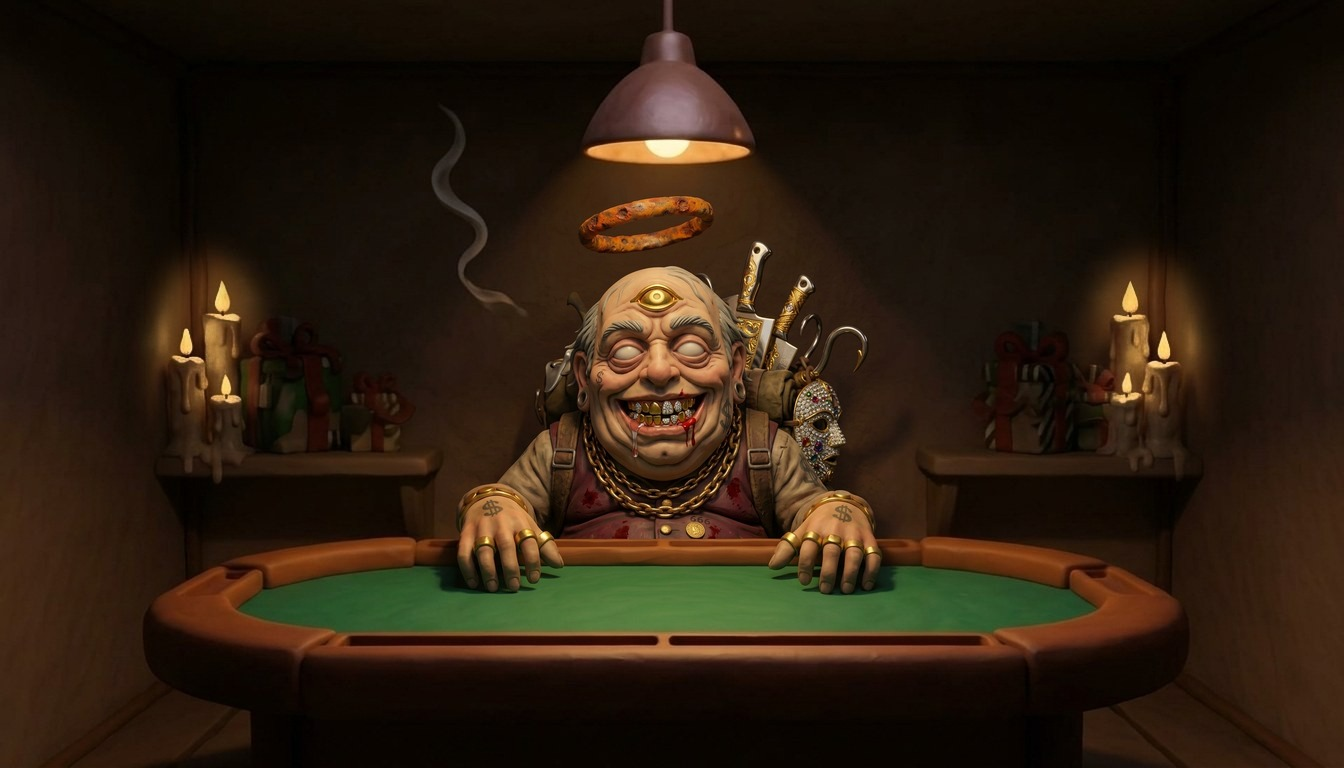
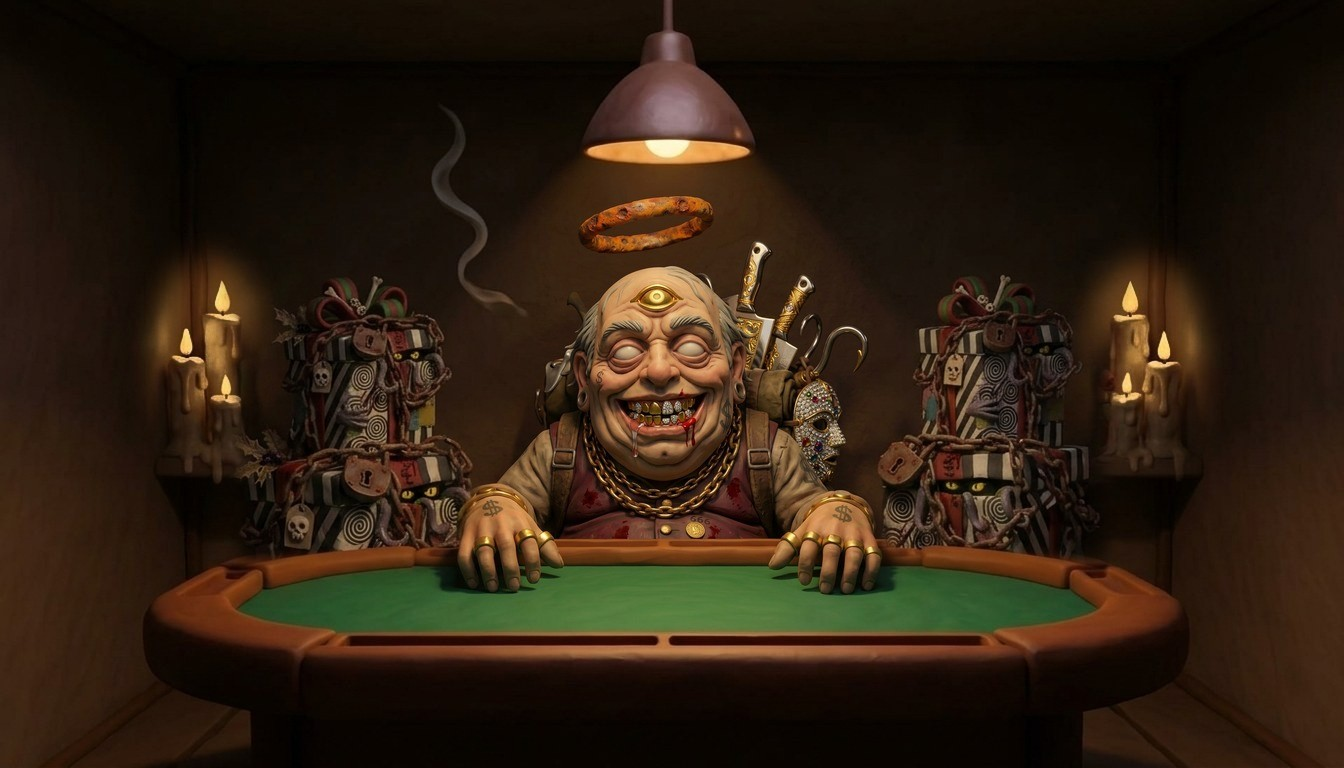
Peddler: Nightmare Box piles on the floor, 13 good karma gate, +1 karma per hiding place; phone edge arrows and hint
Claude-Session: https://claude.ai/code/session_017UCt1yh6wM11RSMuh2VTku

Changed region(s): [[0.1562, 0.3438, 0.375, 0.75], [0.6562, 0.3438, 0.8438, 0.75]]

diff --git a/docs/index.html b/docs/index.html
@@ -233,6 +233,8 @@ button{font:inherit;color:inherit}
 .qz .ab{display:inline-block;width:22px;margin-right:8px;font-family:var(--mono);font-weight:800;color:var(--glow)}
 .demo{margin-top:12px;font-family:var(--mono);font-size:10.5px;letter-spacing:.06em;color:#7d706a}
 .boxes{display:flex;gap:6px;flex-wrap:wrap;margin-top:8px}
+.kgate{margin:0 0 10px;padding:8px 12px;border-radius:10px;font-size:13px;font-weight:600;background:rgba(255,107,94,.12);border:1px solid rgba(255,107,94,.35);color:#ffb3aa}
+.kgate.ok{background:rgba(155,224,111,.12);border-color:rgba(155,224,111,.4);color:#c8f0ad}
 .boxes span{width:26px;height:26px;border-radius:3px;background:repeating-linear-gradient(135deg,#eee 0 4px,#111 4px 8px);border:2px solid #6b2b1a;box-shadow:0 0 0 2px #2a1a0e}
 
 /* ---------- box opening ---------- */
@@ -381,6 +383,17 @@ button{font:inherit;color:inherit}
 /* ---------- hint ---------- */
 .hint{position:fixed;z-index:10;left:50%;top:calc(58px + env(safe-area-inset-top,0px));transform:translateX(-50%);font-family:var(--mono);font-size:11px;letter-spacing:.16em;text-transform:uppercase;color:var(--ash);background:rgba(5,4,10,.7);padding:5px 10px;border-radius:3px;pointer-events:none}
 @media (min-width:900px) and (min-aspect-ratio:4/3){.hint{display:none}}
+/* phones (George 2026-11-28): hint at the bottom so it never collides with the karma pill; edge arrows show there's more room to either side */
+.hint{top:auto;bottom:calc(14px + env(safe-area-inset-bottom,0px));transition:opacity .6s}
+.hint.gone{opacity:0}
+.edge{position:fixed;z-index:9;top:50%;translate:0 -50%;width:40px;height:64px;border:0;padding:0;cursor:pointer;background:rgba(10,6,4,.55);color:var(--bone);font-size:22px;line-height:64px;text-align:center;opacity:0;pointer-events:none;transition:opacity .3s;-webkit-tap-highlight-color:transparent}
+.edge.l{left:0;border-radius:0 14px 14px 0}.edge.r{right:0;border-radius:14px 0 0 14px}
+.edge.on{opacity:.85;pointer-events:auto}
+.edge.on.ping{animation:edgeping 1.6s ease-in-out 2}
+@keyframes edgeping{50%{translate:var(--px,0) -50%}}
+.edge.l{--px:-5px}.edge.r{--px:5px}
+@media (max-aspect-ratio:4/5){.intro{left:50%;width:min(34%,78vw);bottom:12%}}
+@media (min-width:900px) and (min-aspect-ratio:4/3){.edge{display:none}}
 @media (prefers-reduced-motion:reduce){.scene,.scene.on{transition:opacity .3s}.scene.zoom{transform:none}.hot .ring,.fog,.peekbg{animation:none!important}}
 
 /* ---------- Clay UI (George 2026-11-28): puffy hand-rolled plasticine buttons, pills and headings ---------- */
@@ -426,6 +439,7 @@ button{font:inherit;color:inherit}
   <button class="back" id="back" type="button" hidden>Back</button>
 </div>
 <div class="hint" id="hint">Swipe to look around</div>
+<button class="edge l" id="edgeL" type="button" aria-label="Look left">&#8249;</button><button class="edge r" id="edgeR" type="button" aria-label="Look right">&#8250;</button>
 <button class="kpill" id="kpill" type="button" aria-label="Your karma and haunted objectives"><span class="g" id="kg">&#9650; 0</span><span class="b" id="kb">&#9660; 0</span><span class="n" id="kn">0/13</span></button>
 <div class="pview off" id="pview" role="dialog" aria-modal="true" aria-label="The artist's portrait" aria-hidden="true">
   <div class="pflip" id="pflip">
@@ -470,7 +484,7 @@ button{font:inherit;color:inherit}
     </section>
 
     <section class="scene" id="s-peddler" data-crumb="The Peddler" data-back="inside">
-      <img class="bg" src="img/craps.jpg?v=7" alt="A dark private craps room sculpted in clay: the grinning three-eyed Peddler leans on a green felt craps table under a single hanging lamp, chained gift boxes in the shadows" width="1344" height="768">
+      <img class="bg" src="img/craps.jpg?v=8" alt="A dark private craps room sculpted in clay: the grinning three-eyed Peddler leans on a green felt craps table under a single hanging lamp, two piles of chained Nightmare Boxes stacked on the floor behind him" width="1344" height="768">
       <div class="fx" id="fx-peddler" aria-hidden="true"></div>
       <div class="dz" id="dz" aria-hidden="true"></div>
       <div class="hand" id="hand"><img id="handFist" src="img/arm-fist.png?v=5" alt="" width="640" height="677"><img id="handOpen" src="img/arm-open.png?v=5" alt="" width="640" height="677"></div>
@@ -541,14 +555,15 @@ button{font:inherit;color:inherit}
 <div class="card off" id="c-peddler" role="dialog" aria-labelledby="ph">
   <div class="eyebrow">The Melding Peddler</div>
   <h2 id="ph">How many boxes are yours?</h2>
-  <p class="say" id="psay">&hellip;come closer. Show me your wallet. Six Claysons and I start wrapping.</p>
+  <p class="say" id="psay">&hellip;come closer. Earn me thirteen good karma first. Then show me your wallet, and for every three Claysons I wrap you a box.</p>
+  <p class="kgate" id="kgate"></p>
   <form class="row" id="pform">
     <label for="wallet" class="crumb" style="flex-basis:100%">Wallet address</label>
     <input id="wallet" placeholder="0x..." autocomplete="off" spellcheck="false">
     <button class="btn red" type="submit">Ask him</button>
   </form>
   <div class="result" id="presult" aria-live="polite"></div>
-  <div class="demo">Rule: 1 Nightmare Box for every 3 Claysons, starting at 6 held. Counts come from the Nov 25 holder snapshot for now; the final snapshot is taken before the drop.</div>
+  <div class="demo">Rule: earn 13 good karma by playing the games and searching the cabin, then check in. 1 Nightmare Box for every 3 Claysons, starting at 6 held. Counts come from the Nov 25 holder snapshot for now; the final snapshot is taken before the drop.</div>
 </div>
 
 <!-- Late Night Horror Quiz -->
@@ -1086,7 +1101,7 @@ button{font:inherit;color:inherit}
   var SCENES=['exterior','inside','peddler','tree','dock','tv'];
 
   function closeCard(){ if(openCard){openCard.classList.add('off');openCard=null} }
-  function center(){ vp.scrollLeft=(vp.scrollWidth-vp.clientWidth)/2; $('hint').hidden=vp.scrollWidth<=vp.clientWidth+4 }
+  function center(){ vp.scrollLeft=(vp.scrollWidth-vp.clientWidth)/2; $('hint').hidden=vp.scrollWidth<=vp.clientWidth+4; if(window.__edges) setTimeout(__edges,50) }
   function show(name, from){
     if(name==='peddler'&&window.DICE3D) DICE3D.load($('dz')).catch(function(){});
     if(name!=='dock') DOCKLOOK.leave(); else if(cur!=='dock') DOCKLOOK.enter();
@@ -1110,17 +1125,29 @@ button{font:inherit;color:inherit}
   document.querySelectorAll('.hot').forEach(function(h){
     h.addEventListener('click',function(){
       if(h.dataset.go) show(h.dataset.go, h.style.left+' '+h.style.top);
-      else if(h.dataset.card){ if(h.dataset.card==='dock') K.done('sign'); closeCard(); openCard=$('c-'+h.dataset.card); openCard.classList.remove('off'); var f=openCard.querySelector('input,button'); if(f&&matchMedia('(pointer:fine)').matches) f.focus(); }
+      else if(h.dataset.card){ if(h.dataset.card==='dock') K.done('sign'); closeCard(); openCard=$('c-'+h.dataset.card); openCard.classList.remove('off'); if(h.dataset.card==='peddler'&&window.__gate) __gate(); var f=openCard.querySelector('input,button'); if(f&&matchMedia('(pointer:fine)').matches) f.focus(); }
     });
   });
   $('back').addEventListener('click',function(){ show(this.dataset.go) });
   document.addEventListener('keydown',function(e){ if(e.key==='Escape'){ if(openCard) closeCard(); else if(!$('back').hidden) show($('back').dataset.go) } });
   vp.addEventListener('click',function(e){ if(openCard && !e.target.closest('.hot')) closeCard() });
   window.addEventListener('resize',center);
+  // edge arrows on narrow screens: shown when more of the room lies that way; the swipe hint fades after the first look around
+  (function(){ var L=$('edgeL'), Rt=$('edgeR'), moved=false;
+    function upd(){ var max=vp.scrollWidth-vp.clientWidth; L.classList.toggle('on',max>4&&vp.scrollLeft>8); Rt.classList.toggle('on',max>4&&vp.scrollLeft<max-8) }
+    vp.addEventListener('scroll',function(){ upd(); if(!moved&&Math.abs(vp.scrollLeft-(vp.scrollWidth-vp.clientWidth)/2)>40){ moved=true; $('hint').classList.add('gone') } },{passive:true});
+    window.addEventListener('resize',upd);
+    L.addEventListener('click',function(){ vp.scrollBy({left:-vp.clientWidth*.6,behavior:'smooth'}) });
+    Rt.addEventListener('click',function(){ vp.scrollBy({left:vp.clientWidth*.6,behavior:'smooth'}) });
+    window.__edges=function(){ upd(); [L,Rt].forEach(function(e){ e.classList.remove('ping'); void e.offsetWidth; e.classList.add('ping') }) };
+    setTimeout(upd,300) })();
   window.addEventListener('hashchange',function(){ var n=location.hash.slice(1); if(n&&n!==cur) show(n) });
 
   // ---- Box rule (George): 1 Nightmare Box per 3 Claysons; holders need 6+ for now (Black Friday post) ----
-  var PER_BOX=3, MIN_HELD=6, verified=null;
+  var PER_BOX=3, MIN_HELD=6, KARMA_NEED=13, verified=null;
+  window.__gate=function(){ gate() };
+  function gate(){ var g=K.st.good, ok=g>=KARMA_NEED, el=$('kgate'); if(!el) return; el.className='kgate'+(ok?' ok':'');
+    el.innerHTML=ok?'&#9650; '+g+' good karma. The Peddler will see you now.':'&#9650; '+g+' of '+KARMA_NEED+' good karma. Play the games and search the cabin to earn the rest.' }
   function setBoxes(n){
     verified=n; var L=$('under'); L.innerHTML='';
     $('tlocked').hidden=n>0; $('topen').hidden=!(n>0);
@@ -1156,6 +1183,7 @@ button{font:inherit;color:inherit}
   $('pform').addEventListener('submit',function(e){
     e.preventDefault();
     var a=$('wallet').value.trim().toLowerCase(), out=$('presult');
+    if(K.st.good<KARMA_NEED){ gate(); $('psay').textContent='Not yet. Thirteen good karma, then we talk. Play my games. Search the cabin.'; out.innerHTML=''; return }
     if(!/^0x[0-9a-f]{40}$/.test(a)){ $('psay').textContent='That is not a wallet. That is a smudge. Try 0x and 40 more.'; out.innerHTML=''; return }
     if(!holders){ $('psay').textContent='My ledger is still drying. Ask again in a moment.'; return }
     var n=holders[a]||0;
@@ -1353,11 +1381,11 @@ button{font:inherit;color:inherit}
         var r=b.getBoundingClientRect(), R=sc.getBoundingClientRect();
         for(var k=0;k<9;k++){ (function(){ var d=document.createElement('i'); d.className='dust'; d.style.left=((r.left+r.width/2-R.left)/R.width*100)+'%'; d.style.top=((r.top+r.height/2-R.top)/R.height*100)+'%'; sc.appendChild(d);
           var a=Math.random()*6.28, v=20+Math.random()*40; d.animate([{transform:'translate(-50%,-50%)',opacity:.9},{transform:'translate('+(Math.cos(a)*v)+'px,'+(Math.sin(a)*v-20)+'px) scale(.4)',opacity:0}],{duration:700+Math.random()*400,easing:'ease-out',fill:'forwards'}).onfinish=function(){ d.remove() } })() }
-        var first=!S[s[0]]; S[s[0]]=1; b.classList.add('done'); K.save();
+        var first=!S[s[0]]; S[s[0]]=1; b.classList.add('done'); K.save(); if(first) K.add(1,0);
         var n=SPOTS.filter(function(q){ return S[q[0]] }).length;
         setTimeout(function(){
           if(KEY_SPOT===s[0]){ K.toast('<b>'+s[4]+'.</b> Something cold and heavy. <b>The key to the lake.</b>'); return }
-          K.toast('<b>'+s[4]+'.</b> '+s[5]+'<br><small>'+(first?'Searched '+n+' of 13 hiding places':'Already searched')+'</small>');
+          K.toast('<b>'+s[4]+'.</b> '+s[5]+'<br><small>'+(first?'+1 good karma &middot; searched '+n+' of 13 hiding places':'Already searched')+'</small>');
           if(first&&n===13) setTimeout(function(){ K.toast('Every hiding place searched. <b>The key isn’t here... yet.</b>') },3800);
         },450);
       });

diff --git a/site/world/index.html b/site/world/index.html
@@ -233,6 +233,8 @@ button{font:inherit;color:inherit}
 .qz .ab{display:inline-block;width:22px;margin-right:8px;font-family:var(--mono);font-weight:800;color:var(--glow)}
 .demo{margin-top:12px;font-family:var(--mono);font-size:10.5px;letter-spacing:.06em;color:#7d706a}
 .boxes{display:flex;gap:6px;flex-wrap:wrap;margin-top:8px}
+.kgate{margin:0 0 10px;padding:8px 12px;border-radius:10px;font-size:13px;font-weight:600;background:rgba(255,107,94,.12);border:1px solid rgba(255,107,94,.35);color:#ffb3aa}
+.kgate.ok{background:rgba(155,224,111,.12);border-color:rgba(155,224,111,.4);color:#c8f0ad}
 .boxes span{width:26px;height:26px;border-radius:3px;background:repeating-linear-gradient(135deg,#eee 0 4px,#111 4px 8px);border:2px solid #6b2b1a;box-shadow:0 0 0 2px #2a1a0e}
 
 /* ---------- box opening ---------- */
@@ -381,6 +383,17 @@ button{font:inherit;color:inherit}
 /* ---------- hint ---------- */
 .hint{position:fixed;z-index:10;left:50%;top:calc(58px + env(safe-area-inset-top,0px));transform:translateX(-50%);font-family:var(--mono);font-size:11px;letter-spacing:.16em;text-transform:uppercase;color:var(--ash);background:rgba(5,4,10,.7);padding:5px 10px;border-radius:3px;pointer-events:none}
 @media (min-width:900px) and (min-aspect-ratio:4/3){.hint{display:none}}
+/* phones (George 2026-11-28): hint at the bottom so it never collides with the karma pill; edge arrows show there's more room to either side */
+.hint{top:auto;bottom:calc(14px + env(safe-area-inset-bottom,0px));transition:opacity .6s}
+.hint.gone{opacity:0}
+.edge{position:fixed;z-index:9;top:50%;translate:0 -50%;width:40px;height:64px;border:0;padding:0;cursor:pointer;background:rgba(10,6,4,.55);color:var(--bone);font-size:22px;line-height:64px;text-align:center;opacity:0;pointer-events:none;transition:opacity .3s;-webkit-tap-highlight-color:transparent}
+.edge.l{left:0;border-radius:0 14px 14px 0}.edge.r{right:0;border-radius:14px 0 0 14px}
+.edge.on{opacity:.85;pointer-events:auto}
+.edge.on.ping{animation:edgeping 1.6s ease-in-out 2}
+@keyframes edgeping{50%{translate:var(--px,0) -50%}}
+.edge.l{--px:-5px}.edge.r{--px:5px}
+@media (max-aspect-ratio:4/5){.intro{left:50%;width:min(34%,78vw);bottom:12%}}
+@media (min-width:900px) and (min-aspect-ratio:4/3){.edge{display:none}}
 @media (prefers-reduced-motion:reduce){.scene,.scene.on{transition:opacity .3s}.scene.zoom{transform:none}.hot .ring,.fog,.peekbg{animation:none!important}}
 
 /* ---------- Clay UI (George 2026-11-28): puffy hand-rolled plasticine buttons, pills and headings ---------- */
@@ -426,6 +439,7 @@ button{font:inherit;color:inherit}
   <button class="back" id="back" type="button" hidden>Back</button>
 </div>
 <div class="hint" id="hint">Swipe to look around</div>
+<button class="edge l" id="edgeL" type="button" aria-label="Look left">&#8249;</button><button class="edge r" id="edgeR" type="button" aria-label="Look right">&#8250;</button>
 <button class="kpill" id="kpill" type="button" aria-label="Your karma and haunted objectives"><span class="g" id="kg">&#9650; 0</span><span class="b" id="kb">&#9660; 0</span><span class="n" id="kn">0/13</span></button>
 <div class="pview off" id="pview" role="dialog" aria-modal="true" aria-label="The artist's portrait" aria-hidden="true">
   <div class="pflip" id="pflip">
@@ -470,7 +484,7 @@ button{font:inherit;color:inherit}
     </section>
 
     <section class="scene" id="s-peddler" data-crumb="The Peddler" data-back="inside">
-      <img class="bg" src="img/craps.jpg?v=7" alt="A dark private craps room sculpted in clay: the grinning three-eyed Peddler leans on a green felt craps table under a single hanging lamp, chained gift boxes in the shadows" width="1344" height="768">
+      <img class="bg" src="img/craps.jpg?v=8" alt="A dark private craps room sculpted in clay: the grinning three-eyed Peddler leans on a green felt craps table under a single hanging lamp, two piles of chained Nightmare Boxes stacked on the floor behind him" width="1344" height="768">
       <div class="fx" id="fx-peddler" aria-hidden="true"></div>
       <div class="dz" id="dz" aria-hidden="true"></div>
       <div class="hand" id="hand"><img id="handFist" src="img/arm-fist.png?v=5" alt="" width="640" height="677"><img id="handOpen" src="img/arm-open.png?v=5" alt="" width="640" height="677"></div>
@@ -541,14 +555,15 @@ button{font:inherit;color:inherit}
 <div class="card off" id="c-peddler" role="dialog" aria-labelledby="ph">
   <div class="eyebrow">The Melding Peddler</div>
   <h2 id="ph">How many boxes are yours?</h2>
-  <p class="say" id="psay">&hellip;come closer. Show me your wallet. Six Claysons and I start wrapping.</p>
+  <p class="say" id="psay">&hellip;come closer. Earn me thirteen good karma first. Then show me your wallet, and for every three Claysons I wrap you a box.</p>
+  <p class="kgate" id="kgate"></p>
   <form class="row" id="pform">
     <label for="wallet" class="crumb" style="flex-basis:100%">Wallet address</label>
     <input id="wallet" placeholder="0x..." autocomplete="off" spellcheck="false">
     <button class="btn red" type="submit">Ask him</button>
   </form>
   <div class="result" id="presult" aria-live="polite"></div>
-  <div class="demo">Rule: 1 Nightmare Box for every 3 Claysons, starting at 6 held. Counts come from the Nov 25 holder snapshot for now; the final snapshot is taken before the drop.</div>
+  <div class="demo">Rule: earn 13 good karma by playing the games and searching the cabin, then check in. 1 Nightmare Box for every 3 Claysons, starting at 6 held. Counts come from the Nov 25 holder snapshot for now; the final snapshot is taken before the drop.</div>
 </div>
 
 <!-- Late Night Horror Quiz -->
@@ -1086,7 +1101,7 @@ button{font:inherit;color:inherit}
   var SCENES=['exterior','inside','peddler','tree','dock','tv'];
 
   function closeCard(){ if(openCard){openCard.classList.add('off');openCard=null} }
-  function center(){ vp.scrollLeft=(vp.scrollWidth-vp.clientWidth)/2; $('hint').hidden=vp.scrollWidth<=vp.clientWidth+4 }
+  function center(){ vp.scrollLeft=(vp.scrollWidth-vp.clientWidth)/2; $('hint').hidden=vp.scrollWidth<=vp.clientWidth+4; if(window.__edges) setTimeout(__edges,50) }
   function show(name, from){
     if(name==='peddler'&&window.DICE3D) DICE3D.load($('dz')).catch(function(){});
     if(name!=='dock') DOCKLOOK.leave(); else if(cur!=='dock') DOCKLOOK.enter();
@@ -1110,17 +1125,29 @@ button{font:inherit;color:inherit}
   document.querySelectorAll('.hot').forEach(function(h){
     h.addEventListener('click',function(){
       if(h.dataset.go) show(h.dataset.go, h.style.left+' '+h.style.top);
-      else if(h.dataset.card){ if(h.dataset.card==='dock') K.done('sign'); closeCard(); openCard=$('c-'+h.dataset.card); openCard.classList.remove('off'); var f=openCard.querySelector('input,button'); if(f&&matchMedia('(pointer:fine)').matches) f.focus(); }
+      else if(h.dataset.card){ if(h.dataset.card==='dock') K.done('sign'); closeCard(); openCard=$('c-'+h.dataset.card); openCard.classList.remove('off'); if(h.dataset.card==='peddler'&&window.__gate) __gate(); var f=openCard.querySelector('input,button'); if(f&&matchMedia('(pointer:fine)').matches) f.focus(); }
     });
   });
   $('back').addEventListener('click',function(){ show(this.dataset.go) });
   document.addEventListener('keydown',function(e){ if(e.key==='Escape'){ if(openCard) closeCard(); else if(!$('back').hidden) show($('back').dataset.go) } });
   vp.addEventListener('click',function(e){ if(openCard && !e.target.closest('.hot')) closeCard() });
   window.addEventListener('resize',center);
+  // edge arrows on narrow screens: shown when more of the room lies that way; the swipe hint fades after the first look around
+  (function(){ var L=$('edgeL'), Rt=$('edgeR'), moved=false;
+    function upd(){ var max=vp.scrollWidth-vp.clientWidth; L.classList.toggle('on',max>4&&vp.scrollLeft>8); Rt.classList.toggle('on',max>4&&vp.scrollLeft<max-8) }
+    vp.addEventListener('scroll',function(){ upd(); if(!moved&&Math.abs(vp.scrollLeft-(vp.scrollWidth-vp.clientWidth)/2)>40){ moved=true; $('hint').classList.add('gone') } },{passive:true});
+    window.addEventListener('resize',upd);
+    L.addEventListener('click',function(){ vp.scrollBy({left:-vp.clientWidth*.6,behavior:'smooth'}) });
+    Rt.addEventListener('click',function(){ vp.scrollBy({left:vp.clientWidth*.6,behavior:'smooth'}) });
+    window.__edges=function(){ upd(); [L,Rt].forEach(function(e){ e.classList.remove('ping'); void e.offsetWidth; e.classList.add('ping') }) };
+    setTimeout(upd,300) })();
   window.addEventListener('hashchange',function(){ var n=location.hash.slice(1); if(n&&n!==cur) show(n) });
 
   // ---- Box rule (George): 1 Nightmare Box per 3 Claysons; holders need 6+ for now (Black Friday post) ----
-  var PER_BOX=3, MIN_HELD=6, verified=null;
+  var PER_BOX=3, MIN_HELD=6, KARMA_NEED=13, verified=null;
+  window.__gate=function(){ gate() };
+  function gate(){ var g=K.st.good, ok=g>=KARMA_NEED, el=$('kgate'); if(!el) return; el.className='kgate'+(ok?' ok':'');
+    el.innerHTML=ok?'&#9650; '+g+' good karma. The Peddler will see you now.':'&#9650; '+g+' of '+KARMA_NEED+' good karma. Play the games and search the cabin to earn the rest.' }
   function setBoxes(n){
     verified=n; var L=$('under'); L.innerHTML='';
     $('tlocked').hidden=n>0; $('topen').hidden=!(n>0);
@@ -1156,6 +1183,7 @@ button{font:inherit;color:inherit}
   $('pform').addEventListener('submit',function(e){
     e.preventDefault();
     var a=$('wallet').value.trim().toLowerCase(), out=$('presult');
+    if(K.st.good<KARMA_NEED){ gate(); $('psay').textContent='Not yet. Thirteen good karma, then we talk. Play my games. Search the cabin.'; out.innerHTML=''; return }
     if(!/^0x[0-9a-f]{40}$/.test(a)){ $('psay').textContent='That is not a wallet. That is a smudge. Try 0x and 40 more.'; out.innerHTML=''; return }
     if(!holders){ $('psay').textContent='My ledger is still drying. Ask again in a moment.'; return }
     var n=holders[a]||0;
@@ -1353,11 +1381,11 @@ button{font:inherit;color:inherit}
         var r=b.getBoundingClientRect(), R=sc.getBoundingClientRect();
         for(var k=0;k<9;k++){ (function(){ var d=document.createElement('i'); d.className='dust'; d.style.left=((r.left+r.width/2-R.left)/R.width*100)+'%'; d.style.top=((r.top+r.height/2-R.top)/R.height*100)+'%'; sc.appendChild(d);
           var a=Math.random()*6.28, v=20+Math.random()*40; d.animate([{transform:'translate(-50%,-50%)',opacity:.9},{transform:'translate('+(Math.cos(a)*v)+'px,'+(Math.sin(a)*v-20)+'px) scale(.4)',opacity:0}],{duration:700+Math.random()*400,easing:'ease-out',fill:'forwards'}).onfinish=function(){ d.remove() } })() }
-        var first=!S[s[0]]; S[s[0]]=1; b.classList.add('done'); K.save();
+        var first=!S[s[0]]; S[s[0]]=1; b.classList.add('done'); K.save(); if(first) K.add(1,0);
         var n=SPOTS.filter(function(q){ return S[q[0]] }).length;
         setTimeout(function(){
           if(KEY_SPOT===s[0]){ K.toast('<b>'+s[4]+'.</b> Something cold and heavy. <b>The key to the lake.</b>'); return }
-          K.toast('<b>'+s[4]+'.</b> '+s[5]+'<br><small>'+(first?'Searched '+n+' of 13 hiding places':'Already searched')+'</small>');
+          K.toast('<b>'+s[4]+'.</b> '+s[5]+'<br><small>'+(first?'+1 good karma &middot; searched '+n+' of 13 hiding places':'Already searched')+'</small>');
           if(first&&n===13) setTimeout(function(){ K.toast('Every hiding place searched. <b>The key isn’t here... yet.</b>') },3800);
         },450);
       });

diff --git a/site/world/page.html b/site/world/page.html
@@ -228,6 +228,8 @@ button{font:inherit;color:inherit}
 .qz .ab{display:inline-block;width:22px;margin-right:8px;font-family:var(--mono);font-weight:800;color:var(--glow)}
 .demo{margin-top:12px;font-family:var(--mono);font-size:10.5px;letter-spacing:.06em;color:#7d706a}
 .boxes{display:flex;gap:6px;flex-wrap:wrap;margin-top:8px}
+.kgate{margin:0 0 10px;padding:8px 12px;border-radius:10px;font-size:13px;font-weight:600;background:rgba(255,107,94,.12);border:1px solid rgba(255,107,94,.35);color:#ffb3aa}
+.kgate.ok{background:rgba(155,224,111,.12);border-color:rgba(155,224,111,.4);color:#c8f0ad}
 .boxes span{width:26px;height:26px;border-radius:3px;background:repeating-linear-gradient(135deg,#eee 0 4px,#111 4px 8px);border:2px solid #6b2b1a;box-shadow:0 0 0 2px #2a1a0e}
 
 /* ---------- box opening ---------- */
@@ -376,6 +378,17 @@ button{font:inherit;color:inherit}
 /* ---------- hint ---------- */
 .hint{position:fixed;z-index:10;left:50%;top:calc(58px + env(safe-area-inset-top,0px));transform:translateX(-50%);font-family:var(--mono);font-size:11px;letter-spacing:.16em;text-transform:uppercase;color:var(--ash);background:rgba(5,4,10,.7);padding:5px 10px;border-radius:3px;pointer-events:none}
 @media (min-width:900px) and (min-aspect-ratio:4/3){.hint{display:none}}
+/* phones (George 2026-11-28): hint at the bottom so it never collides with the karma pill; edge arrows show there's more room to either side */
+.hint{top:auto;bottom:calc(14px + env(safe-area-inset-bottom,0px));transition:opacity .6s}
+.hint.gone{opacity:0}
+.edge{position:fixed;z-index:9;top:50%;translate:0 -50%;width:40px;height:64px;border:0;padding:0;cursor:pointer;background:rgba(10,6,4,.55);color:var(--bone);font-size:22px;line-height:64px;text-align:center;opacity:0;pointer-events:none;transition:opacity .3s;-webkit-tap-highlight-color:transparent}
+.edge.l{left:0;border-radius:0 14px 14px 0}.edge.r{right:0;border-radius:14px 0 0 14px}
+.edge.on{opacity:.85;pointer-events:auto}
+.edge.on.ping{animation:edgeping 1.6s ease-in-out 2}
+@keyframes edgeping{50%{translate:var(--px,0) -50%}}
+.edge.l{--px:-5px}.edge.r{--px:5px}
+@media (max-aspect-ratio:4/5){.intro{left:50%;width:min(34%,78vw);bottom:12%}}
+@media (min-width:900px) and (min-aspect-ratio:4/3){.edge{display:none}}
 @media (prefers-reduced-motion:reduce){.scene,.scene.on{transition:opacity .3s}.scene.zoom{transform:none}.hot .ring,.fog,.peekbg{animation:none!important}}
 
 /* ---------- Clay UI (George 2026-11-28): puffy hand-rolled plasticine buttons, pills and headings ---------- */
@@ -421,6 +434,7 @@ button{font:inherit;color:inherit}
   <button class="back" id="back" type="button" hidden>Back</button>
 </div>
 <div class="hint" id="hint">Swipe to look around</div>
+<button class="edge l" id="edgeL" type="button" aria-label="Look left">&#8249;</button><button class="edge r" id="edgeR" type="button" aria-label="Look right">&#8250;</button>
 <button class="kpill" id="kpill" type="button" aria-label="Your karma and haunted objectives"><span class="g" id="kg">&#9650; 0</span><span class="b" id="kb">&#9660; 0</span><span class="n" id="kn">0/13</span></button>
 <div class="pview off" id="pview" role="dialog" aria-modal="true" aria-label="The artist's portrait" aria-hidden="true">
   <div class="pflip" id="pflip">
@@ -465,7 +479,7 @@ button{font:inherit;color:inherit}
     </section>
 
     <section class="scene" id="s-peddler" data-crumb="The Peddler" data-back="inside">
-      <img class="bg" src="img/craps.jpg?v=7" alt="A dark private craps room sculpted in clay: the grinning three-eyed Peddler leans on a green felt craps table under a single hanging lamp, chained gift boxes in the shadows" width="1344" height="768">
+      <img class="bg" src="img/craps.jpg?v=8" alt="A dark private craps room sculpted in clay: the grinning three-eyed Peddler leans on a green felt craps table under a single hanging lamp, two piles of chained Nightmare Boxes stacked on the floor behind him" width="1344" height="768">
       <div class="fx" id="fx-peddler" aria-hidden="true"></div>
       <div class="dz" id="dz" aria-hidden="true"></div>
       <div class="hand" id="hand"><img id="handFist" src="img/arm-fist.png?v=5" alt="" width="640" height="677"><img id="handOpen" src="img/arm-open.png?v=5" alt="" width="640" height="677"></div>
@@ -536,14 +550,15 @@ button{font:inherit;color:inherit}
 <div class="card off" id="c-peddler" role="dialog" aria-labelledby="ph">
   <div class="eyebrow">The Melding Peddler</div>
   <h2 id="ph">How many boxes are yours?</h2>
-  <p class="say" id="psay">&hellip;come closer. Show me your wallet. Six Claysons and I start wrapping.</p>
+  <p class="say" id="psay">&hellip;come closer. Earn me thirteen good karma first. Then show me your wallet, and for every three Claysons I wrap you a box.</p>
+  <p class="kgate" id="kgate"></p>
   <form class="row" id="pform">
     <label for="wallet" class="crumb" style="flex-basis:100%">Wallet address</label>
     <input id="wallet" placeholder="0x..." autocomplete="off" spellcheck="false">
     <button class="btn red" type="submit">Ask him</button>
   </form>
   <div class="result" id="presult" aria-live="polite"></div>
-  <div class="demo">Rule: 1 Nightmare Box for every 3 Claysons, starting at 6 held. Counts come from the Nov 25 holder snapshot for now; the final snapshot is taken before the drop.</div>
+  <div class="demo">Rule: earn 13 good karma by playing the games and searching the cabin, then check in. 1 Nightmare Box for every 3 Claysons, starting at 6 held. Counts come from the Nov 25 holder snapshot for now; the final snapshot is taken before the drop.</div>
 </div>
 
 <!-- Late Night Horror Quiz -->
@@ -1081,7 +1096,7 @@ button{font:inherit;color:inherit}
   var SCENES=['exterior','inside','peddler','tree','dock','tv'];
 
   function closeCard(){ if(openCard){openCard.classList.add('off');openCard=null} }
-  function center(){ vp.scrollLeft=(vp.scrollWidth-vp.clientWidth)/2; $('hint').hidden=vp.scrollWidth<=vp.clientWidth+4 }
+  function center(){ vp.scrollLeft=(vp.scrollWidth-vp.clientWidth)/2; $('hint').hidden=vp.scrollWidth<=vp.clientWidth+4; if(window.__edges) setTimeout(__edges,50) }
   function show(name, from){
     if(name==='peddler'&&window.DICE3D) DICE3D.load($('dz')).catch(function(){});
     if(name!=='dock') DOCKLOOK.leave(); else if(cur!=='dock') DOCKLOOK.enter();
@@ -1105,17 +1120,29 @@ button{font:inherit;color:inherit}
   document.querySelectorAll('.hot').forEach(function(h){
     h.addEventListener('click',function(){
       if(h.dataset.go) show(h.dataset.go, h.style.left+' '+h.style.top);
-      else if(h.dataset.card){ if(h.dataset.card==='dock') K.done('sign'); closeCard(); openCard=$('c-'+h.dataset.card); openCard.classList.remove('off'); var f=openCard.querySelector('input,button'); if(f&&matchMedia('(pointer:fine)').matches) f.focus(); }
+      else if(h.dataset.card){ if(h.dataset.card==='dock') K.done('sign'); closeCard(); openCard=$('c-'+h.dataset.card); openCard.classList.remove('off'); if(h.dataset.card==='peddler'&&window.__gate) __gate(); var f=openCard.querySelector('input,button'); if(f&&matchMedia('(pointer:fine)').matches) f.focus(); }
     });
   });
   $('back').addEventListener('click',function(){ show(this.dataset.go) });
   document.addEventListener('keydown',function(e){ if(e.key==='Escape'){ if(openCard) closeCard(); else if(!$('back').hidden) show($('back').dataset.go) } });
   vp.addEventListener('click',function(e){ if(openCard && !e.target.closest('.hot')) closeCard() });
   window.addEventListener('resize',center);
+  // edge arrows on narrow screens: shown when more of the room lies that way; the swipe hint fades after the first look around
+  (function(){ var L=$('edgeL'), Rt=$('edgeR'), moved=false;
+    function upd(){ var max=vp.scrollWidth-vp.clientWidth; L.classList.toggle('on',max>4&&vp.scrollLeft>8); Rt.classList.toggle('on',max>4&&vp.scrollLeft<max-8) }
+    vp.addEventListener('scroll',function(){ upd(); if(!moved&&Math.abs(vp.scrollLeft-(vp.scrollWidth-vp.clientWidth)/2)>40){ moved=true; $('hint').classList.add('gone') } },{passive:true});
+    window.addEventListener('resize',upd);
+    L.addEventListener('click',function(){ vp.scrollBy({left:-vp.clientWidth*.6,behavior:'smooth'}) });
+    Rt.addEventListener('click',function(){ vp.scrollBy({left:vp.clientWidth*.6,behavior:'smooth'}) });
+    window.__edges=function(){ upd(); [L,Rt].forEach(function(e){ e.classList.remove('ping'); void e.offsetWidth; e.classList.add('ping') }) };
+    setTimeout(upd,300) })();
   window.addEventListener('hashchange',function(){ var n=location.hash.slice(1); if(n&&n!==cur) show(n) });
 
   // ---- Box rule (George): 1 Nightmare Box per 3 Claysons; holders need 6+ for now (Black Friday post) ----
-  var PER_BOX=3, MIN_HELD=6, verified=null;
+  var PER_BOX=3, MIN_HELD=6, KARMA_NEED=13, verified=null;
+  window.__gate=function(){ gate() };
+  function gate(){ var g=K.st.good, ok=g>=KARMA_NEED, el=$('kgate'); if(!el) return; el.className='kgate'+(ok?' ok':'');
+    el.innerHTML=ok?'&#9650; '+g+' good karma. The Peddler will see you now.':'&#9650; '+g+' of '+KARMA_NEED+' good karma. Play the games and search the cabin to earn the rest.' }
   function setBoxes(n){
     verified=n; var L=$('under'); L.innerHTML='';
     $('tlocked').hidden=n>0; $('topen').hidden=!(n>0);
@@ -1151,6 +1178,7 @@ button{font:inherit;color:inherit}
   $('pform').addEventListener('submit',function(e){
     e.preventDefault();
     var a=$('wallet').value.trim().toLowerCase(), out=$('presult');
+    if(K.st.good<KARMA_NEED){ gate(); $('psay').textContent='Not yet. Thirteen good karma, then we talk. Play my games. Search the cabin.'; out.innerHTML=''; return }
     if(!/^0x[0-9a-f]{40}$/.test(a)){ $('psay').textContent='That is not a wallet. That is a smudge. Try 0x and 40 more.'; out.innerHTML=''; return }
     if(!holders){ $('psay').textContent='My ledger is still drying. Ask again in a moment.'; return }
     var n=holders[a]||0;
@@ -1348,11 +1376,11 @@ button{font:inherit;color:inherit}
         var r=b.getBoundingClientRect(), R=sc.getBoundingClientRect();
         for(var k=0;k<9;k++){ (function(){ var d=document.createElement('i'); d.className='dust'; d.style.left=((r.left+r.width/2-R.left)/R.width*100)+'%'; d.style.top=((r.top+r.height/2-R.top)/R.height*100)+'%'; sc.appendChild(d);
           var a=Math.random()*6.28, v=20+Math.random()*40; d.animate([{transform:'translate(-50%,-50%)',opacity:.9},{transform:'translate('+(Math.cos(a)*v)+'px,'+(Math.sin(a)*v-20)+'px) scale(.4)',opacity:0}],{duration:700+Math.random()*400,easing:'ease-out',fill:'forwards'}).onfinish=function(){ d.remove() } })() }
-        var first=!S[s[0]]; S[s[0]]=1; b.classList.add('done'); K.save();
+        var first=!S[s[0]]; S[s[0]]=1; b.classList.add('done'); K.save(); if(first) K.add(1,0);
         var n=SPOTS.filter(function(q){ return S[q[0]] }).length;
         setTimeout(function(){
           if(KEY_SPOT===s[0]){ K.toast('<b>'+s[4]+'.</b> Something cold and heavy. <b>The key to the lake.</b>'); return }
-          K.toast('<b>'+s[4]+'.</b> '+s[5]+'<br><small>'+(first?'Searched '+n+' of 13 hiding places':'Already searched')+'</small>');
+          K.toast('<b>'+s[4]+'.</b> '+s[5]+'<br><small>'+(first?'+1 good karma &middot; searched '+n+' of 13 hiding places':'Already searched')+'</small>');
           if(first&&n===13) setTimeout(function(){ K.toast('Every hiding place searched. <b>The key isn’t here... yet.</b>') },3800);
         },450);
       });
